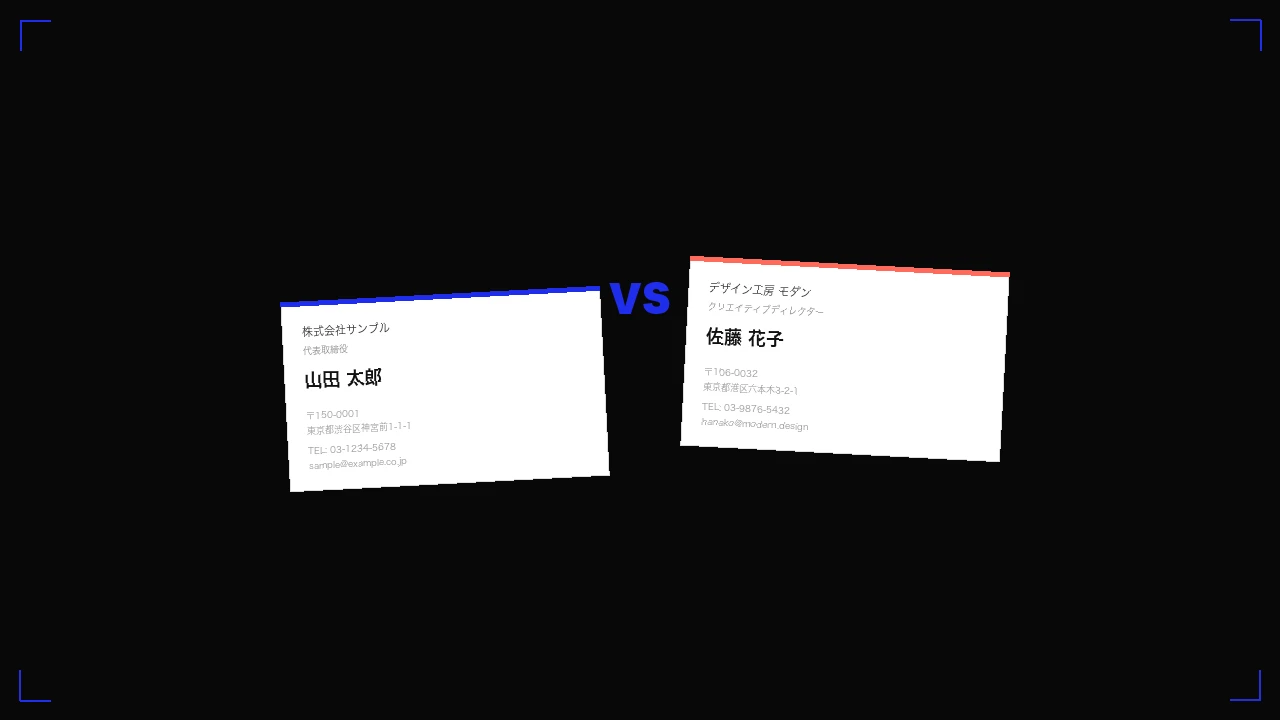
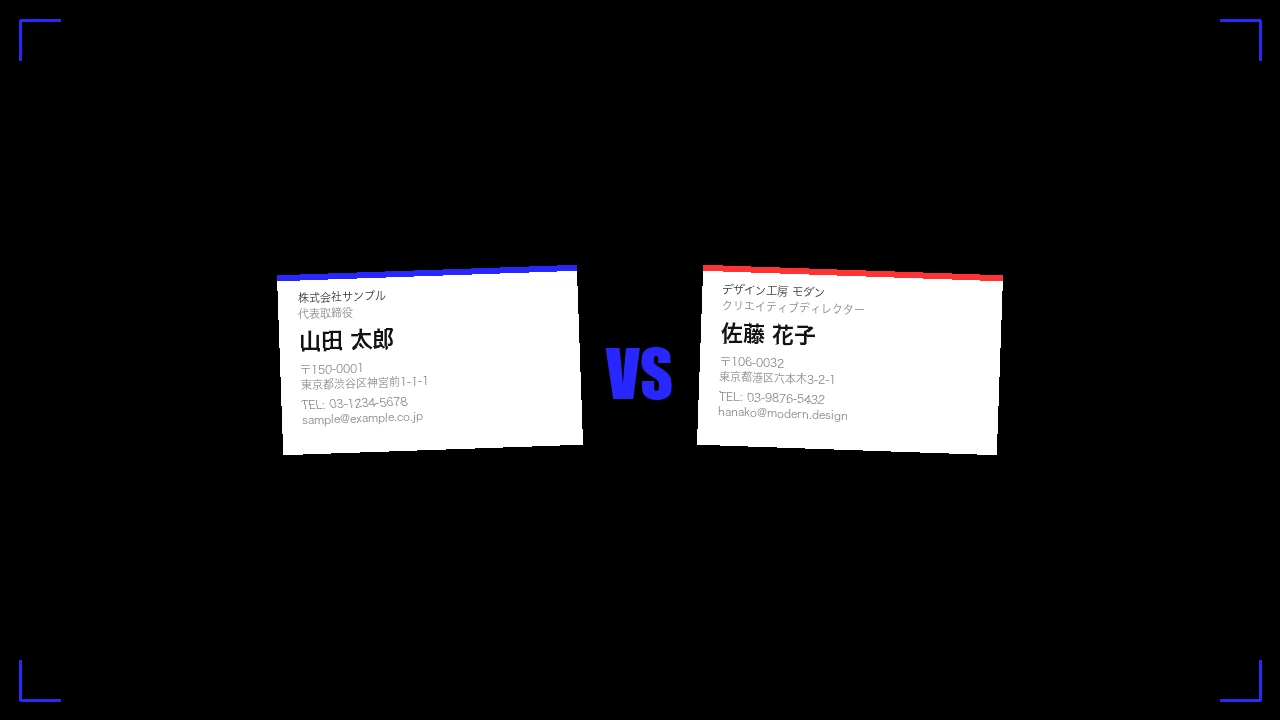
名刺バトラーのサムネを中央配置に修正 + cache buster v7

Changed region(s): [[0.2188, 0.3361, 0.8125, 0.7028], [0.9688, 0.9472, 1.0, 0.9778], [0.0, 0.9472, 0.0312, 0.9778]]

diff --git a/index.html b/index.html
@@ -316,7 +316,7 @@
         const title = item.title;
         const href = item.url ? ` href="${item.url}" target="_blank" rel="noopener"` : '';
         const slug = slugify(item.url);
-        const thumbUrl = `thumbs/${slug}.webp?v=6`;
+        const thumbUrl = `thumbs/${slug}.webp?v=7`;
         const hiddenClass = idx >= VISIBLE_COUNT ? ' hidden-panel' : '';
 
         let badgeHtml = '';
